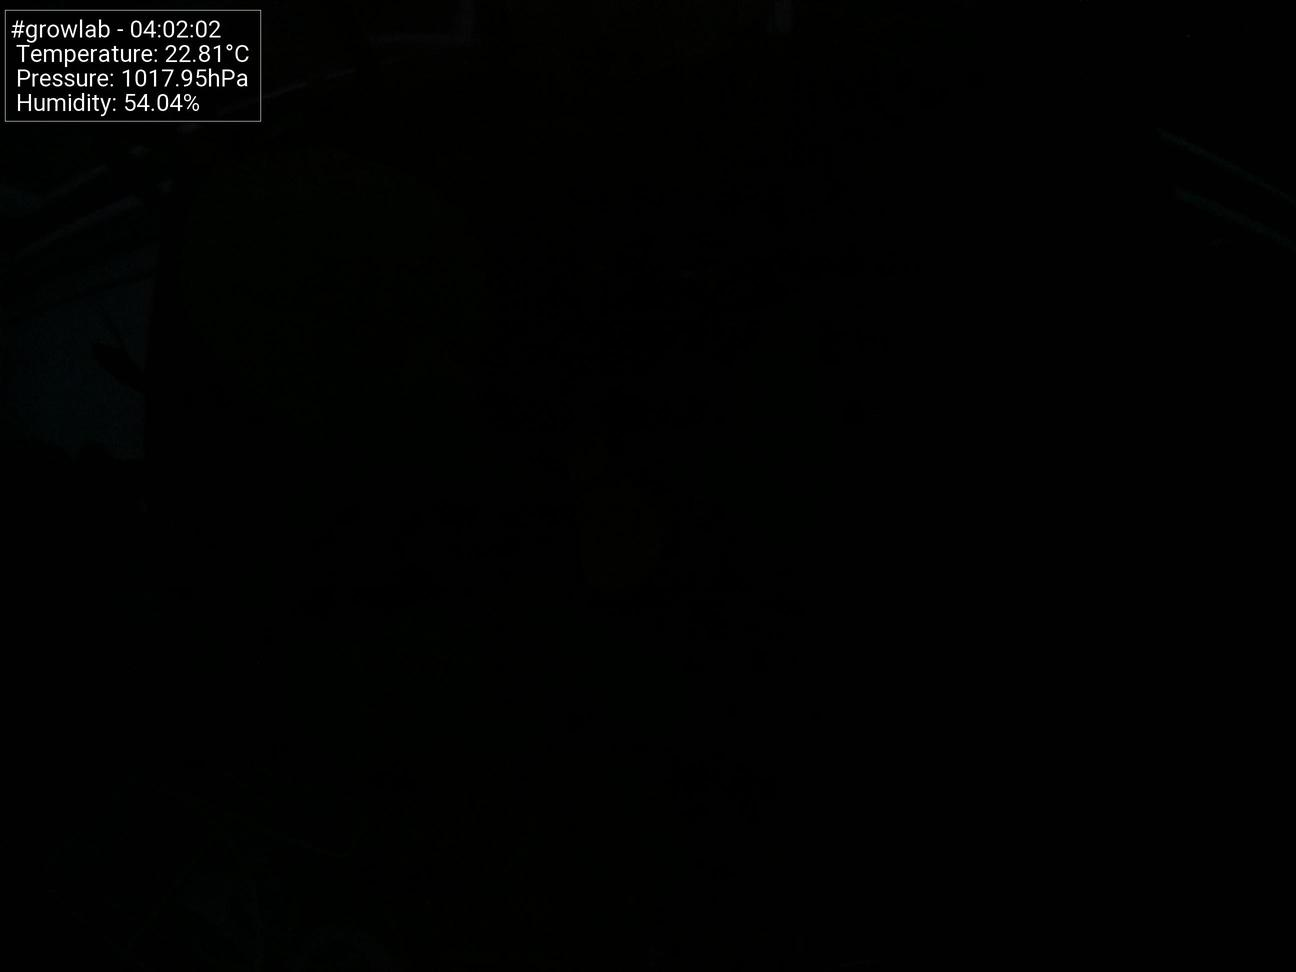
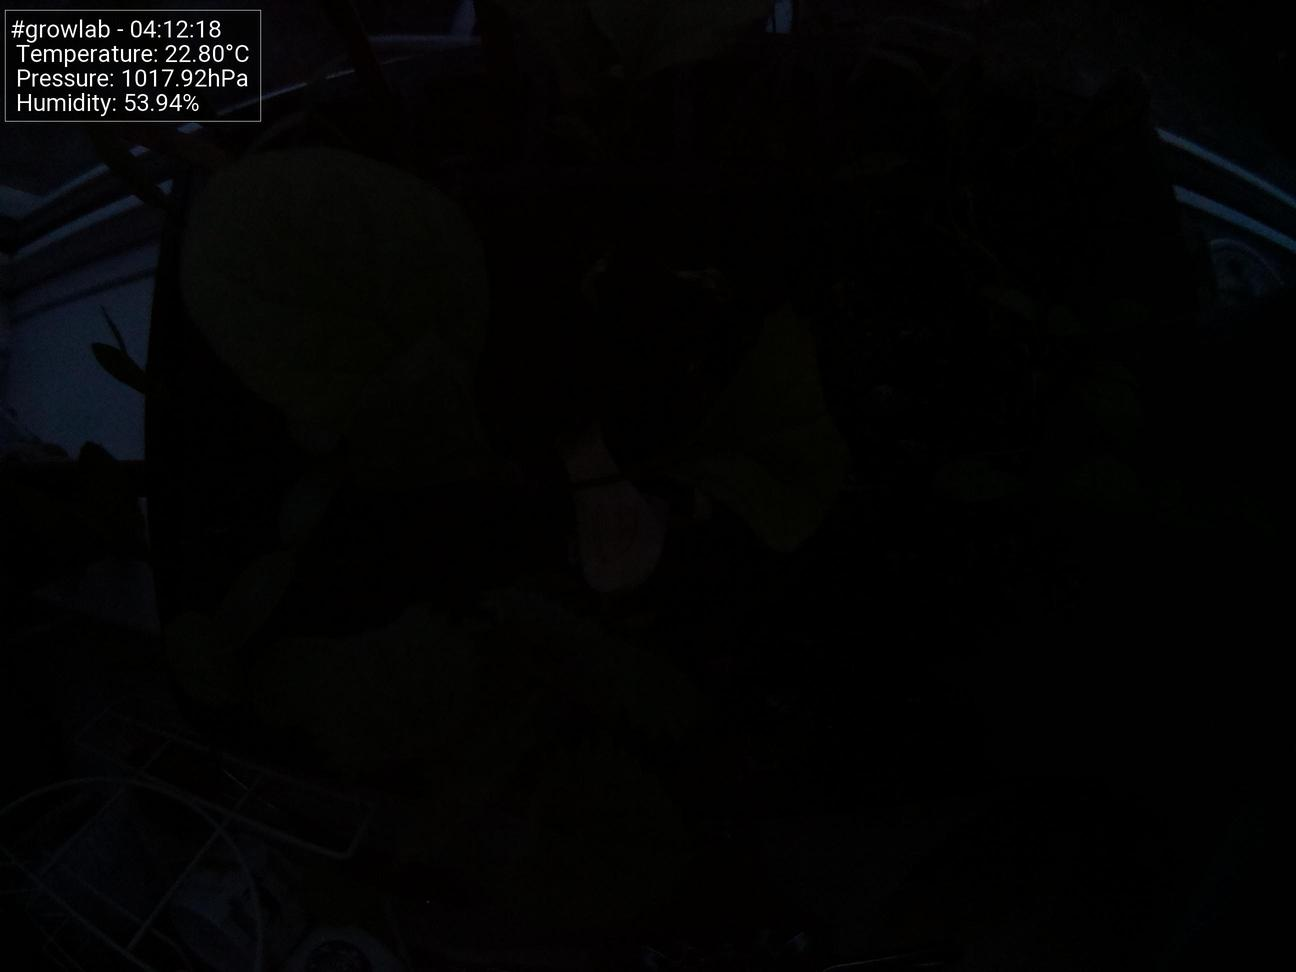
Update images at Tue  1 Jun 04:12:27 BST 2021

diff --git a/docs/index.html b/docs/index.html
@@ -47,19 +47,19 @@
                         <tbody>
                             <tr>
                                 <td>Time</td>
-                                <td>04:02:02</td>
+                                <td>04:12:18</td>
                             </tr>
                             <tr>
                                 <td>Temperature</td>
-                                <td>22.81°C</td>
+                                <td>22.80°C</td>
                             </tr>
                             <tr>
                                 <td>Humidity</td>
-                                <td>54.04%</td>
+                                <td>53.94%</td>
                             </tr>
                             <tr>
                                 <td>Pressure</td>
-                                <td>1017.95hPa</td>
+                                <td>1017.92hPa</td>
                             </tr>
                         </tbody>
                     </table>
@@ -67,7 +67,7 @@
 
                 <h5>Latest image</h5>
                 <div style="width: 85%;">
-                            <img class="figure-img img-fluid rounded" src="./preview.jpg?uid=1622516530.663961">
+                            <img class="figure-img img-fluid rounded" src="./preview.jpg?uid=1622517146.9242957">
                 </div>
             </div>
         </div>
